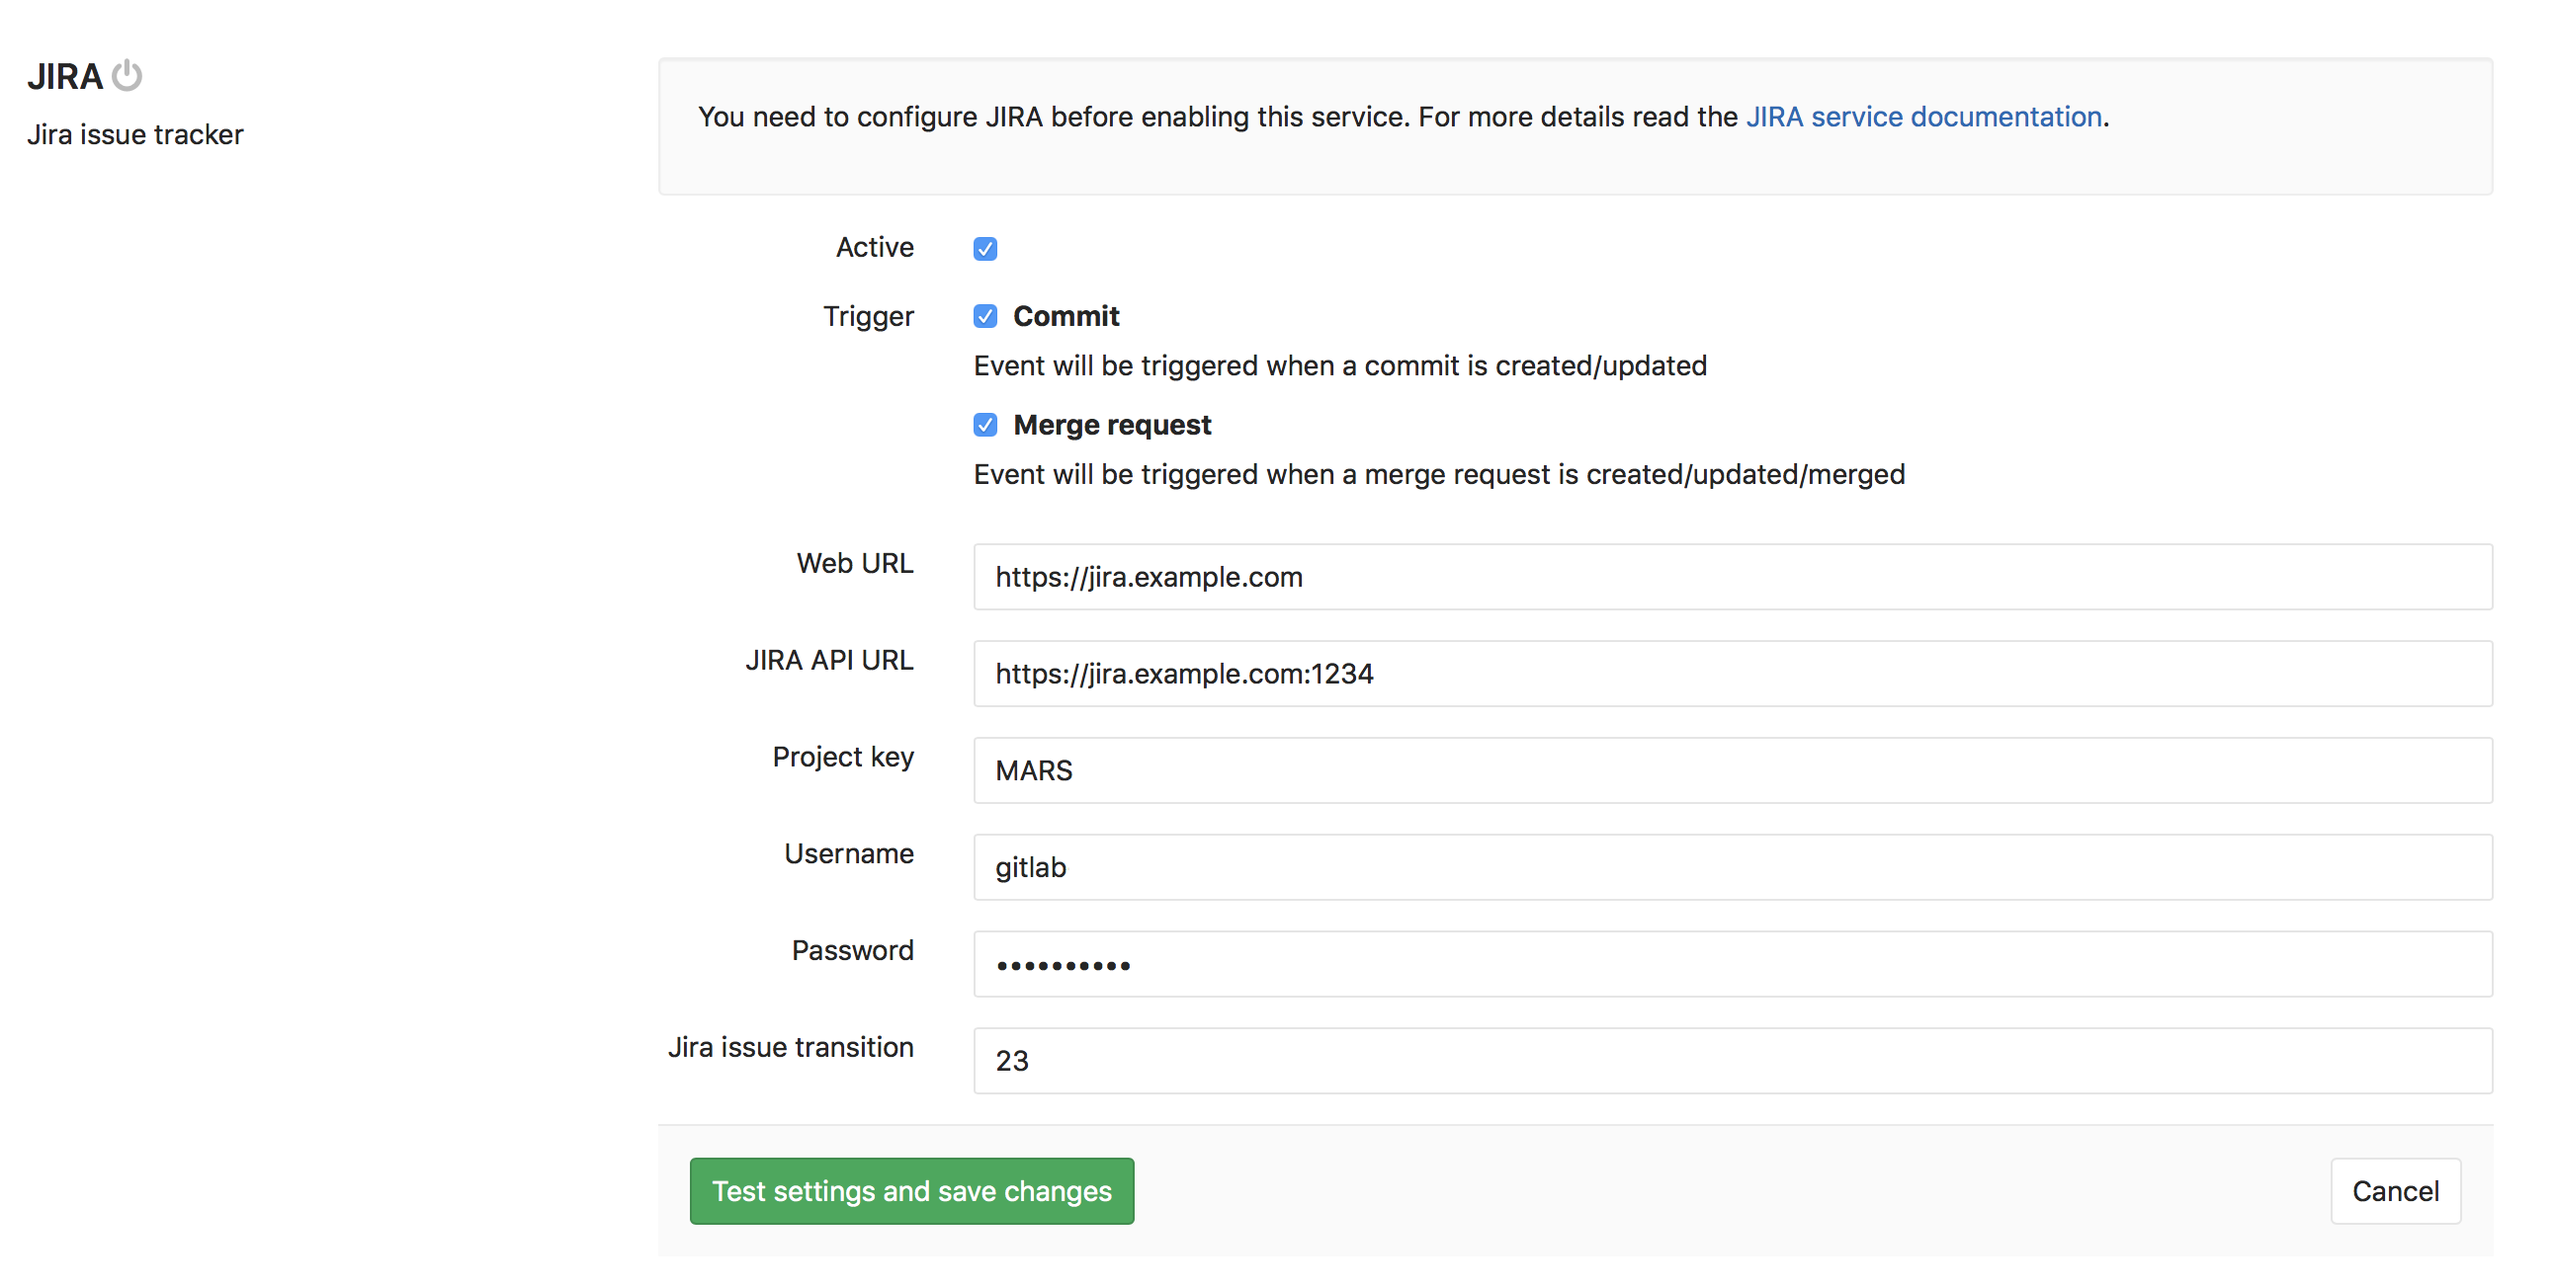
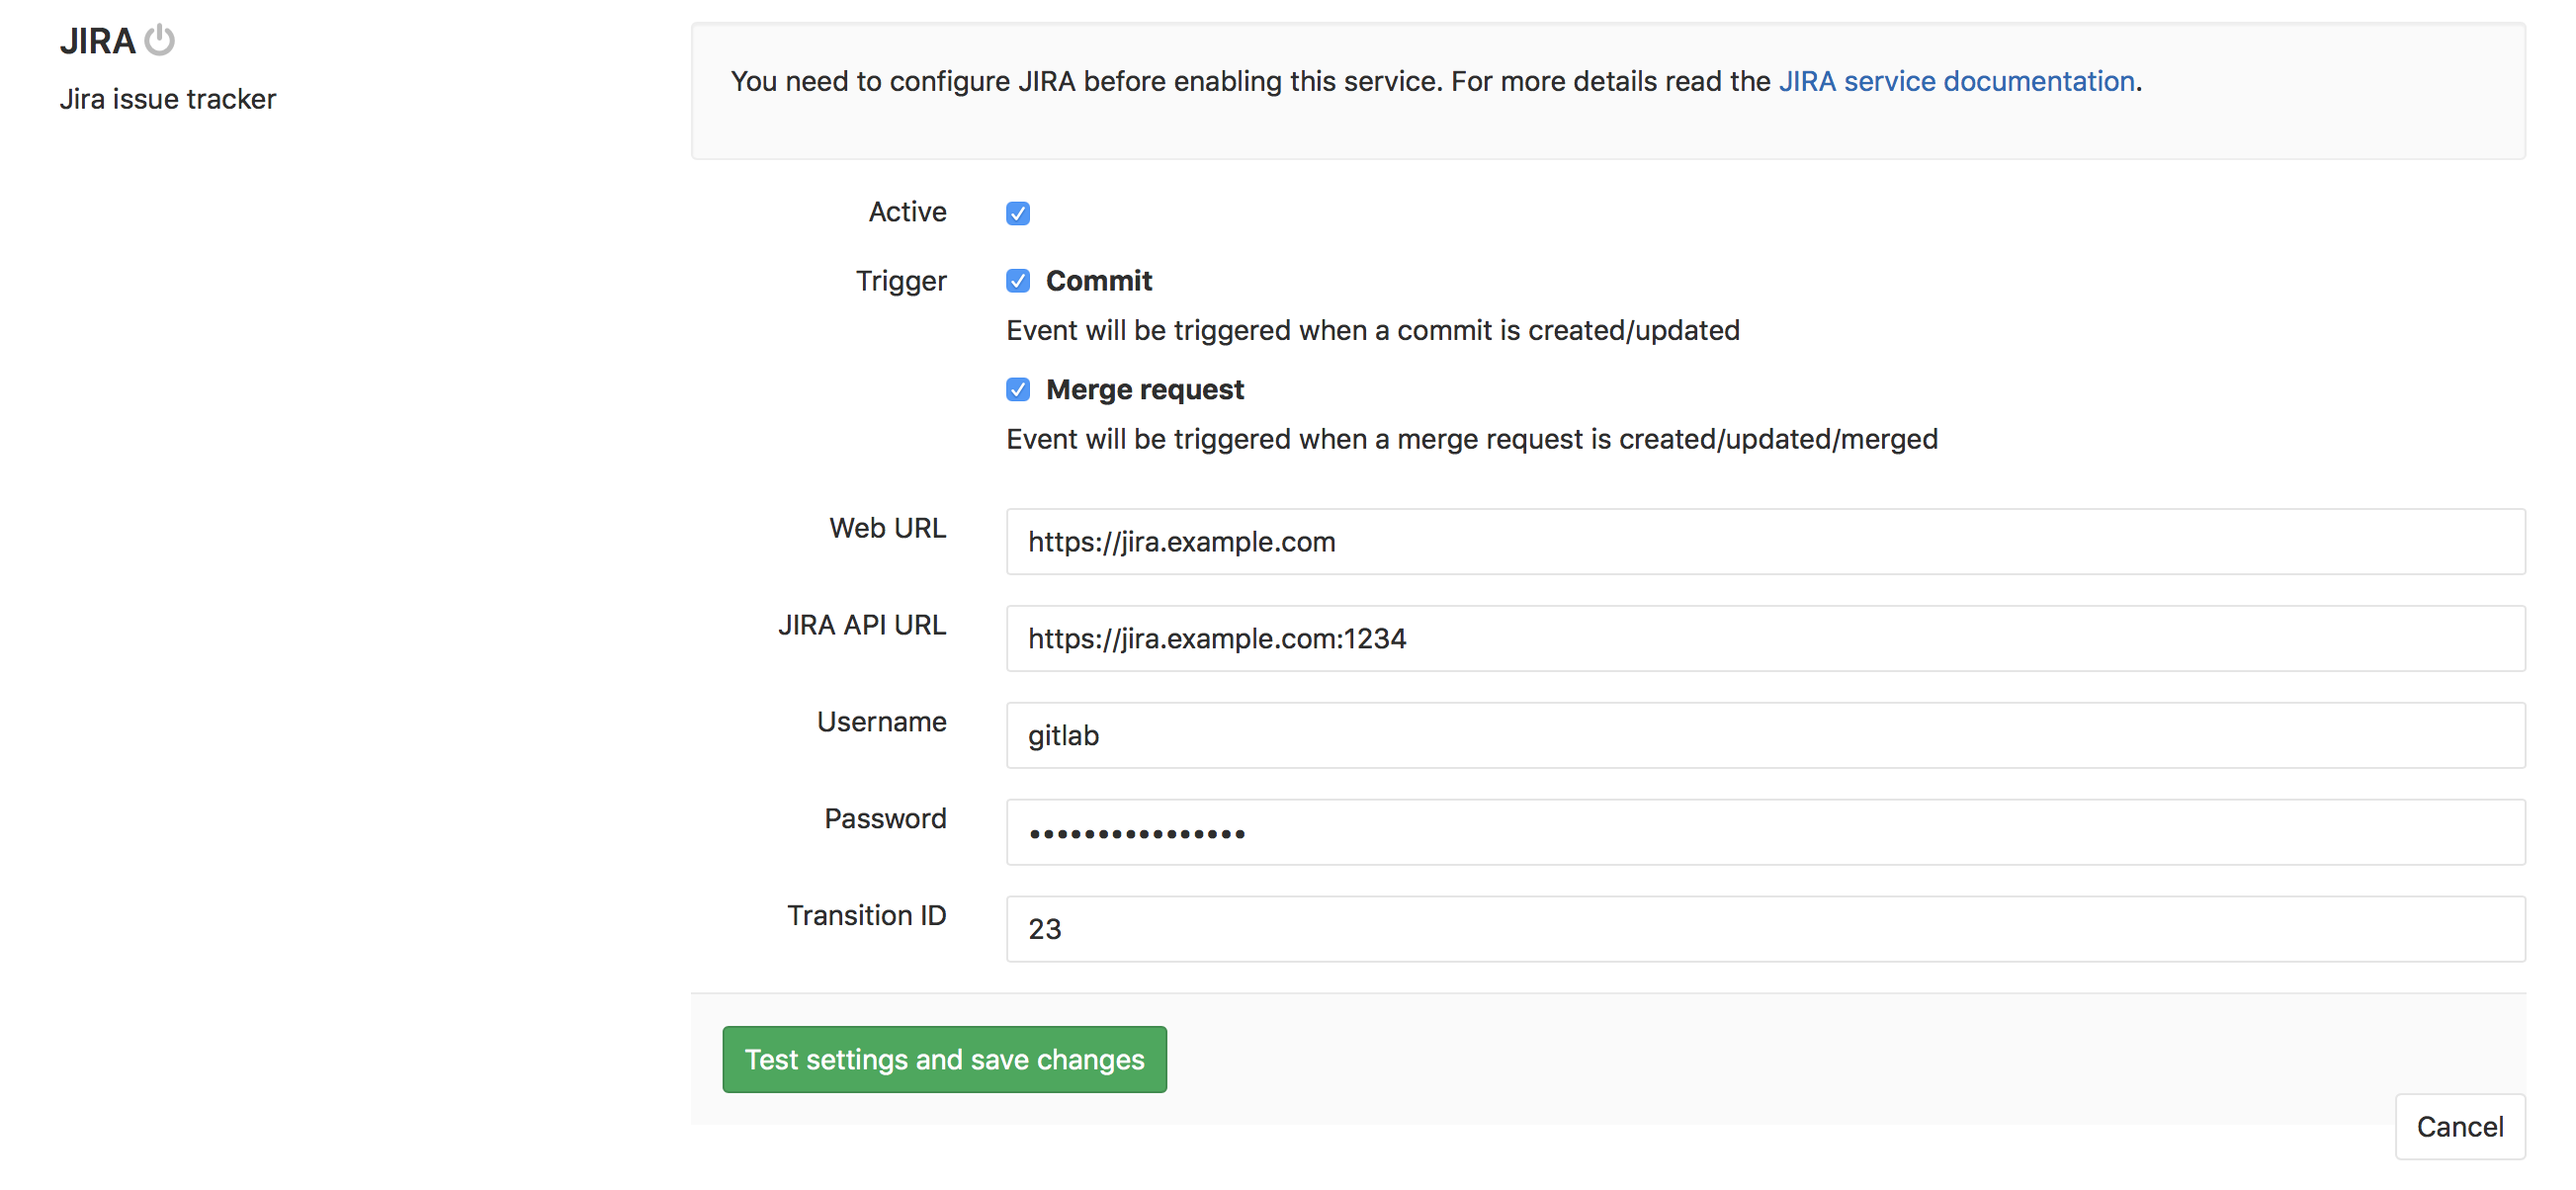
Merge branch 'docs-jira' into 'master'
JIRA docs update

See merge request !13514

diff --git a/doc/user/project/integrations/jira.md b/doc/user/project/integrations/jira.md
@@ -10,7 +10,12 @@ JIRA](https://www.programmableweb.com/news/how-and-why-to-integrate-gitlab-jira/
 
 ## Configuration
 
-Each GitLab project can be configured to connect to a different JIRA instance.
+Each GitLab project can be configured to connect to a different JIRA instance. That
+means one GitLab project maps to _all_ JIRA projects in that JIRA instance once
+the configuration is set up. Therefore, you don't have to explicitly associate 
+one GitLab project to any JIRA project. Once the configuration is set up, any JIRA
+projects in the JIRA instance are already mapped to the GitLab project.
+
 If you have one JIRA instance you can pre-fill the settings page with a default
 template, see the [Services Templates][services-templates] docs.
 
@@ -103,7 +108,6 @@ in the table below.
 | ----- | ----------- |
 | `Web URL` | The base URL to the JIRA instance web interface which is being linked to this GitLab project. E.g., `https://jira.example.com`. |
 | `JIRA API URL` | The base URL to the JIRA instance API. Web URL value will be used if not set. E.g., `https://jira-api.example.com`. |
-| `Project key` | Put a JIRA project key (in uppercase), e.g. `MARS` in this field. This is only for testing the configuration settings. JIRA integration in GitLab works with _all_ JIRA projects in your JIRA instance. This field will be removed in a future release. |
 | `Username` | The user name created in [configuring JIRA step](#configuring-jira). |
 | `Password` |The password of the user created in [configuring JIRA step](#configuring-jira). |
 | `Transition ID` | This is the ID of a transition that moves issues to a closed state. You can find this number under JIRA workflow administration ([see screenshot](img/jira_workflow_screenshot.png)). **Closing JIRA issues via commits or Merge Requests won't work if you don't set the ID correctly.** |
